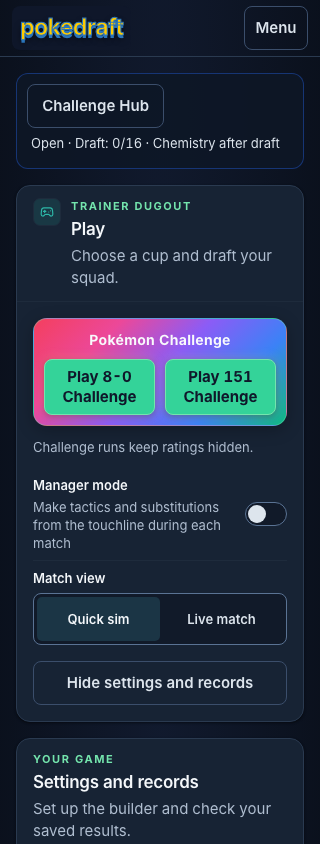
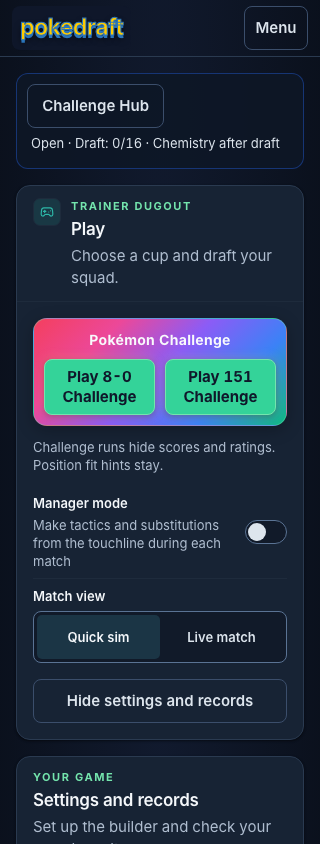
docs(home): one-tap play fix round 1 gates after merging main
Records the merge of d48aa0f, gates at 1b0e673 and the Play card proof
re-shot with the copy pass hint.

Claude-Session: https://claude.ai/code/session_01DTp1YoYMSvPZ3BKnAowv2J

diff --git a/docs/decisions/one-tap-play.md b/docs/decisions/one-tap-play.md
@@ -205,5 +205,37 @@ It stays inside the viewport at every width.
 ## Carryovers
 
 - 4b: collapse the settings below 1024 px. The `#settings` reveal already opens a collapsed panel.
-- PR #114 rewrites the ratings hints in `SidePanel.tsx` and `SidePanel.test.tsx`. This row leaves
-  those strings alone; the coordinator merges.
+- PR #114 rewrote the ratings hints in `SidePanel.tsx` and `SidePanel.test.tsx`. Merged in fix
+  round 1 (below); closed.
+
+## Fix round 1: merge of origin/main
+
+`git merge origin/main` at `d48aa0f` (PR #113 `124afab` and PR #114 `d48aa0f`), merge commit
+`1b0e673`. No rebase.
+
+- Only `STATE.md` conflicted, in one hunk. It was resolved with the coordinator's
+  `resolve-state.py` and the #114 merged paragraph: this row's section on top, then "Copy pass and
+  dash lint" ending with the #114 paragraph, then "Matchday carryovers" ending with its #113
+  paragraph. One copy of each.
+- `SidePanel.tsx`, `SidePanel.test.tsx`, `DraftBoard.tsx` and `challenge-ratings.spec.ts` merged
+  without conflict. The Play card keeps 4e's hint ("Challenge runs hide scores and ratings.
+  Position fit hints stay.") above this row's Matchday selector. Settings keeps 4e's "Ratings on"
+  and the long blind-mode hint. The draft drawer keeps 4e's "Hide players", "Show players" and
+  "Show roll", and the finished draft button keeps this row's Kick off or See results.
+- No main-side file referenced the retired dialog. `grep -rnE "Yes, play|Settings confirmed|ConfirmPlay|confirmPlay|play-confirm"` over
+  `src` and `e2e` finds only the guard's own describe name.
+- No code change was needed after the merge, so no new RED. `pnpm check:dashes` exits 0 on this
+  row's copy.
+- The three Play card proof PNGs were re-shot by `one-tap-play.spec.ts` on the merged build, so
+  they show 4e's hint. The start card PNGs did not change. Every other PNG the suite rewrote was
+  reverted.
+
+Gates at `1b0e673`: lint, typecheck and build exited 0. All eight `check:*` scripts exited 0.
+`pnpm test` passed 1,707 in 199 files. Prettier passed on the 31 files changed against
+`origin/main`. Playwright full suite (`CI=1`, headless, fresh build at `1b0e673`): 918 passed, 63
+skipped, 0 failed, 0 retries. `one-tap-play` passed 18 of 18.
+
+NOT RUN in fix round 1: the measurements table was not re-taken. 4e's longer Play card hint wraps
+to two lines at 390 in the re-shot proof, so the Play card and Formation tops in the table may now
+be off by about one line. Also NOT RUN: review, hosted CI, a physical phone check and a screen
+reader pass.

diff --git a/STATE.md b/STATE.md
@@ -5,7 +5,7 @@ and its squash SHA are recorded in the next PR's STATE update.
 
 ## One-tap play
 
-Branch `feat/one-tap-play` off `origin/main` at `34af10e`. Wave 4 row 4a, home and start card (Yellow). No file under `src/engine`, `src/data` or `src/scouting` changed.
+Branch `feat/one-tap-play` off `origin/main` at `34af10e`, with `origin/main` merged at `d48aa0f` (PRs #113 and #114) in fix round 1. Wave 4 row 4a, home and start card (Yellow). No file under `src/engine`, `src/data` or `src/scouting` changed.
 
 - Play 8-0 Challenge and Play 151 Challenge go straight to the challenge. The "Settings confirmed?" dialog is gone. Play still starts a fresh run.
 - The Matchday choice (Manager mode and Match view) is in the home Play card, so every player sees it before a cup. It left Settings and records. The builder keeps its own copy beside "Play a friendly cup", bound to the same setting.
@@ -15,11 +15,12 @@ Branch `feat/one-tap-play` off `origin/main` at `34af10e`. Wave 4 row 4a, home a
 
 RED commits: `616ee23` (23 of 27 failed in 3 files) and `8dd0a64` (1 of 13 failed). The first RED's e2e spec failed 9 of 11 against a build of the pre-fix sources.
 
-Gates at `565e78e` (code identical at the docs commit that adds this section):
+Gates at `1b0e673` (fix round 1, the merge of `d48aa0f`; the docs commit that follows changes only docs and the three Play card proof PNGs):
 
-- Lint, typecheck and build exited 0. All seven `check:*` scripts exited 0. Prettier passed on the touched files.
-- Unit tests: 1,674 passed in 195 files.
-- Playwright (`CI=1`, fresh build at `565e78e`), full suite: 901 passed, 63 skipped by their own project gates, 0 failed, 0 flaky. `one-tap-play` passed 18 of 18 across `chromium` and `iphone-14`.
+- Lint, typecheck and build exited 0. All eight `check:*` scripts exited 0, with the new `check:dashes`. Prettier passed on the 31 files changed against `origin/main`.
+- Unit tests: 1,707 passed in 199 files.
+- Playwright (`CI=1`, headless, fresh build at `1b0e673`), full suite: 918 passed, 63 skipped by their own project gates, 0 failed, 0 flaky. `one-tap-play` passed 18 of 18 across `chromium` and `iphone-14`.
+- Round 0, at `565e78e`: 1,674 unit tests in 195 files, seven `check:*` scripts, full Playwright 901 passed, 63 skipped, 0 failed.
 - NOT RUN: review, hosted CI, a physical phone check and a real screen reader pass (owner actions).
 
 Measurements and decisions are in `docs/decisions/one-tap-play.md`. Browser proof: `docs/reports/one-tap-play/` (Play card and start card at 390, 360 and 320).
